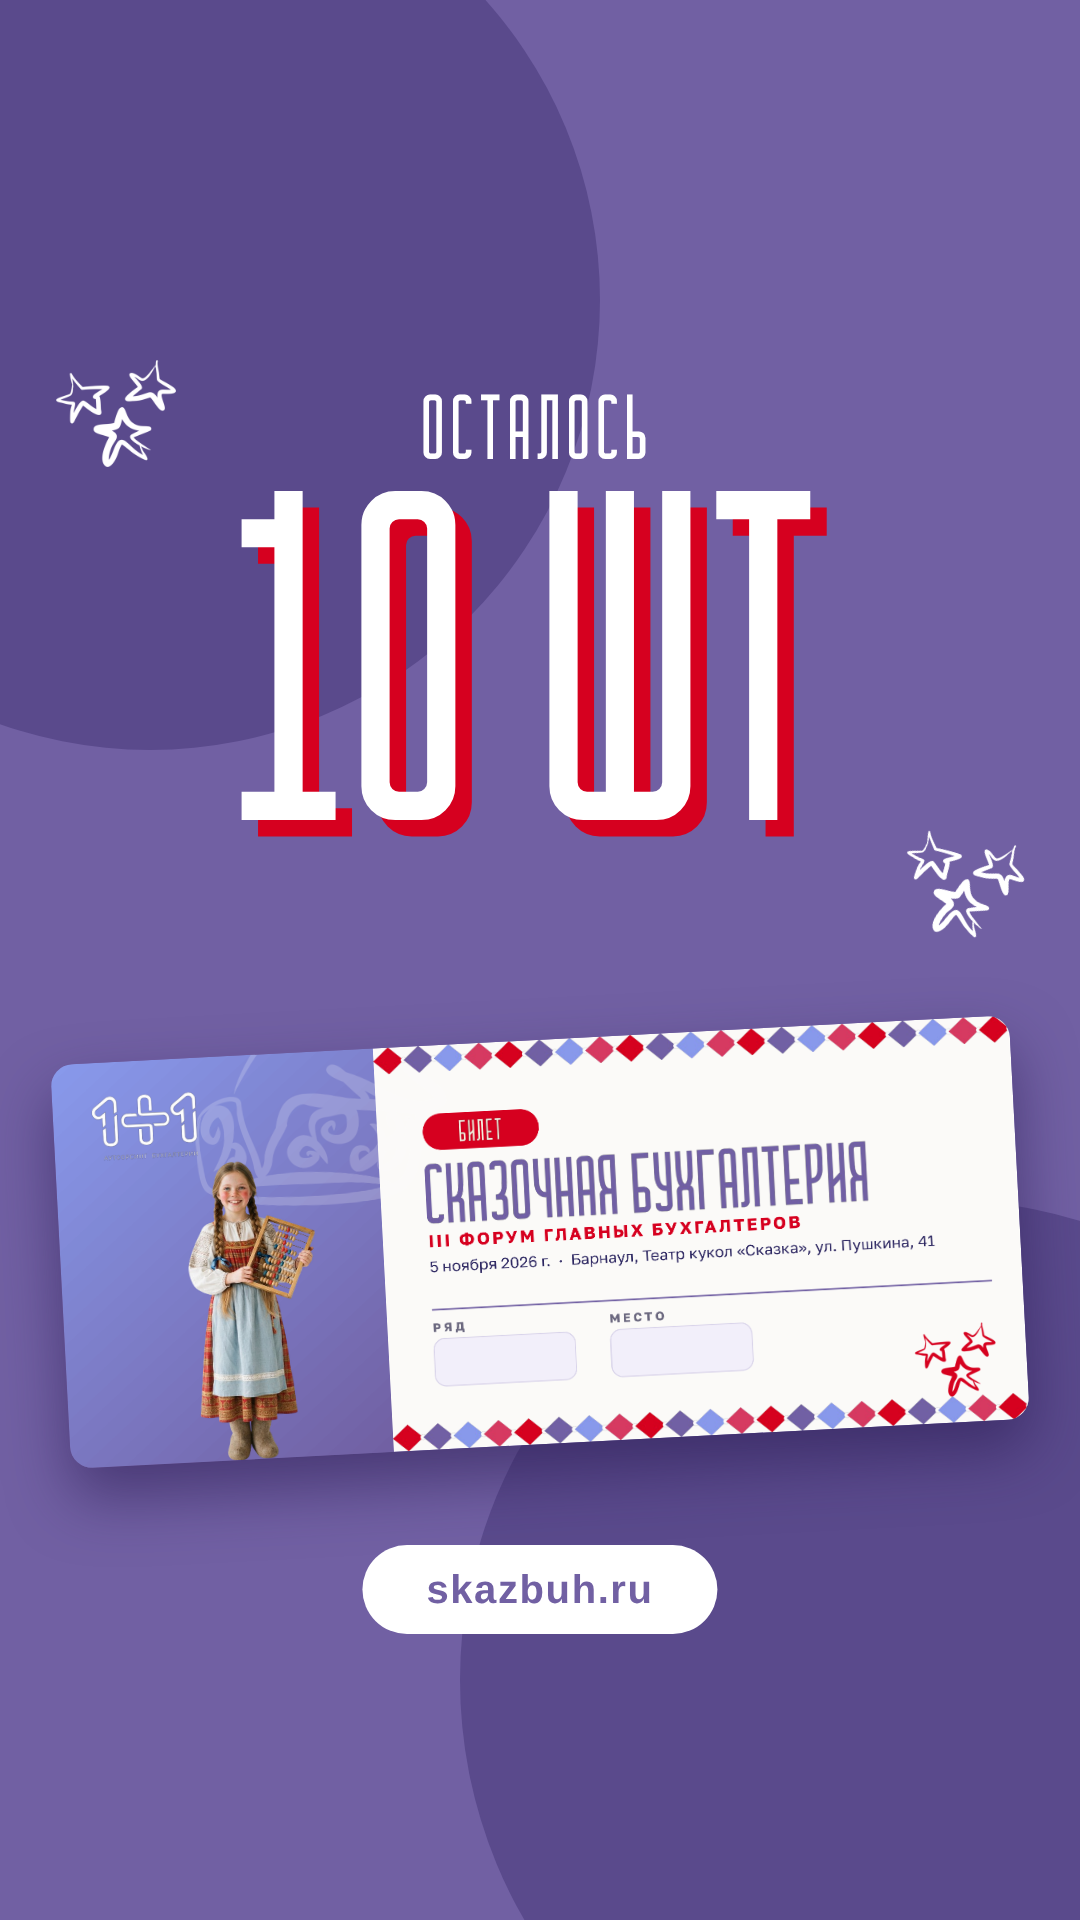
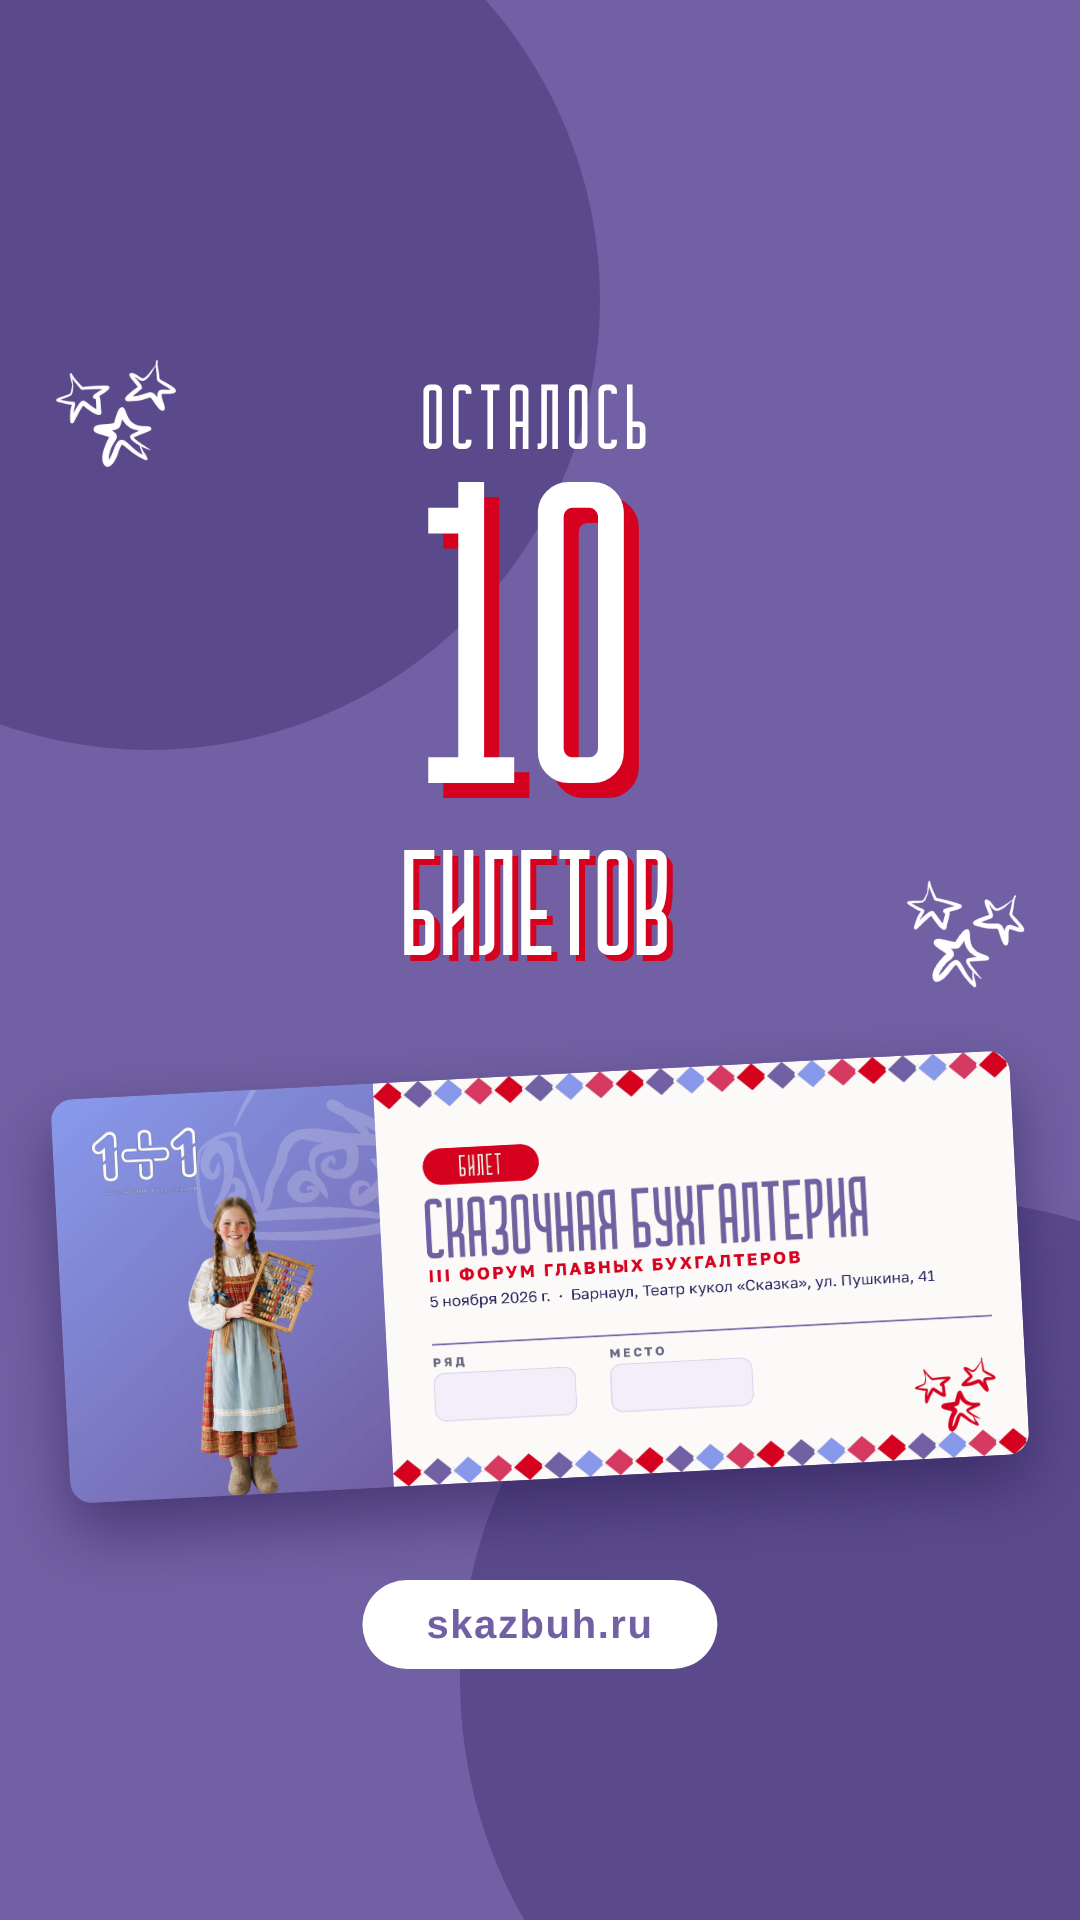
Social creatives: 'Осталось 10 билетов' wording in square and story
Claude-Session: https://claude.ai/code/session_01DZEn5nyTAWE8zavBUm6caU

Changed region(s): [[0.0306, 0.4375, 0.9778, 0.875], [0.2139, 0.1875, 0.7639, 0.5]]

diff --git a/conference-skazbuh/social/story.html b/conference-skazbuh/social/story.html
@@ -3,16 +3,17 @@
 html,body{width:1080px;height:1920px}
 .bgc.a{left:-300px;top:-150px;width:900px;height:900px}
 .bgc.b{right:-340px;bottom:-240px;width:960px;height:960px}
-.left{left:0;right:0;text-align:center;top:390px;font-size:92px;letter-spacing:.06em}
-.ten{left:0;right:0;text-align:center;top:510px;font-size:470px;line-height:.82;white-space:nowrap;text-shadow:.035em .035em 0 var(--red)}
-.ticket{position:absolute;left:50%;margin-left:-480px;top:1040px;width:960px;border-radius:22px;box-shadow:0 30px 60px rgba(40,25,80,.55);transform:rotate(-3deg)}
-.btn{left:50%;transform:translateX(-50%);top:1545px;font-size:40px;padding:22px 64px}
-.star{width:120px}.s1{left:56px;top:360px}.s2{right:60px;top:830px;transform:rotate(18deg)}
+.left{left:0;right:0;text-align:center;top:380px;font-size:92px;letter-spacing:.06em}
+.ten{left:0;right:0;text-align:center;top:500px;font-size:430px;line-height:.82;white-space:nowrap;text-shadow:.035em .035em 0 var(--red)}
+.bil{position:absolute;left:0;right:0;text-align:center;top:850px;font-family:'Cramaten',sans-serif;font-size:150px;line-height:.9;color:#fff;text-transform:uppercase;text-shadow:.04em .04em 0 var(--red)}
+.ticket{position:absolute;left:50%;margin-left:-480px;top:1075px;width:960px;border-radius:22px;box-shadow:0 30px 60px rgba(40,25,80,.55);transform:rotate(-3deg)}
+.btn{left:50%;transform:translateX(-50%);top:1580px;font-size:40px;padding:22px 64px}
+.star{width:120px}.s1{left:56px;top:360px}.s2{right:60px;top:880px;transform:rotate(18deg)}
 </style></head><body>
 <div class="bgc a"></div><div class="bgc b"></div>
 <img class="star s1" src="zvezdy-w.png" alt=""><img class="star s2" src="zvezdy-w.png" alt="">
 <div class="left">Осталось</div>
-<div class="ten">10 шт</div>
+<div class="ten">10</div><div class="bil">билетов</div>
 <img class="ticket" src="ticket.png" alt="">
 <div class="btn">skazbuh.ru</div>
 </body></html>

diff --git a/conference-skazbuh/social/square.html b/conference-skazbuh/social/square.html
@@ -4,7 +4,9 @@ html,body{width:1080px;height:1080px}
 .bgc.a{left:-260px;top:-300px;width:800px;height:800px}
 .bgc.b{right:-300px;bottom:-320px;width:800px;height:800px}
 .left{left:0;right:0;text-align:center;top:70px;font-size:74px;letter-spacing:.06em}
-.ten{left:0;right:0;text-align:center;top:170px;font-size:360px;line-height:.82;white-space:nowrap;text-shadow:.035em .035em 0 var(--red)}
+.row{position:absolute;left:0;right:0;top:175px;display:flex;justify-content:center;align-items:flex-end;gap:34px;white-space:nowrap}
+.row .n{font-family:'Cramaten',sans-serif;font-size:380px;line-height:.8;color:#fff;text-shadow:.035em .035em 0 var(--red)}
+.row .w{font-family:'Cramaten',sans-serif;font-size:150px;line-height:.8;color:#fff;text-transform:uppercase;text-shadow:.04em .04em 0 var(--red);padding-bottom:22px}
 .ticket{position:absolute;left:50%;margin-left:-440px;top:560px;width:880px;border-radius:22px;box-shadow:0 30px 60px rgba(40,25,80,.55);transform:rotate(-3deg)}
 .btn{left:50%;transform:translateX(-50%);bottom:56px;font-size:38px;padding:20px 60px}
 .star{width:100px}.s1{left:56px;top:470px}.s2{right:60px;top:90px;transform:rotate(18deg)}
@@ -12,7 +14,7 @@ html,body{width:1080px;height:1080px}
 <div class="bgc a"></div><div class="bgc b"></div>
 <img class="star s1" src="zvezdy-w.png" alt=""><img class="star s2" src="zvezdy-w.png" alt="">
 <div class="left">Осталось</div>
-<div class="ten">10 шт</div>
+<div class="row"><div class="n">10</div><div class="w">билетов</div></div>
 <img class="ticket" src="ticket.png" alt="">
 <div class="btn">skazbuh.ru</div>
 </body></html>
